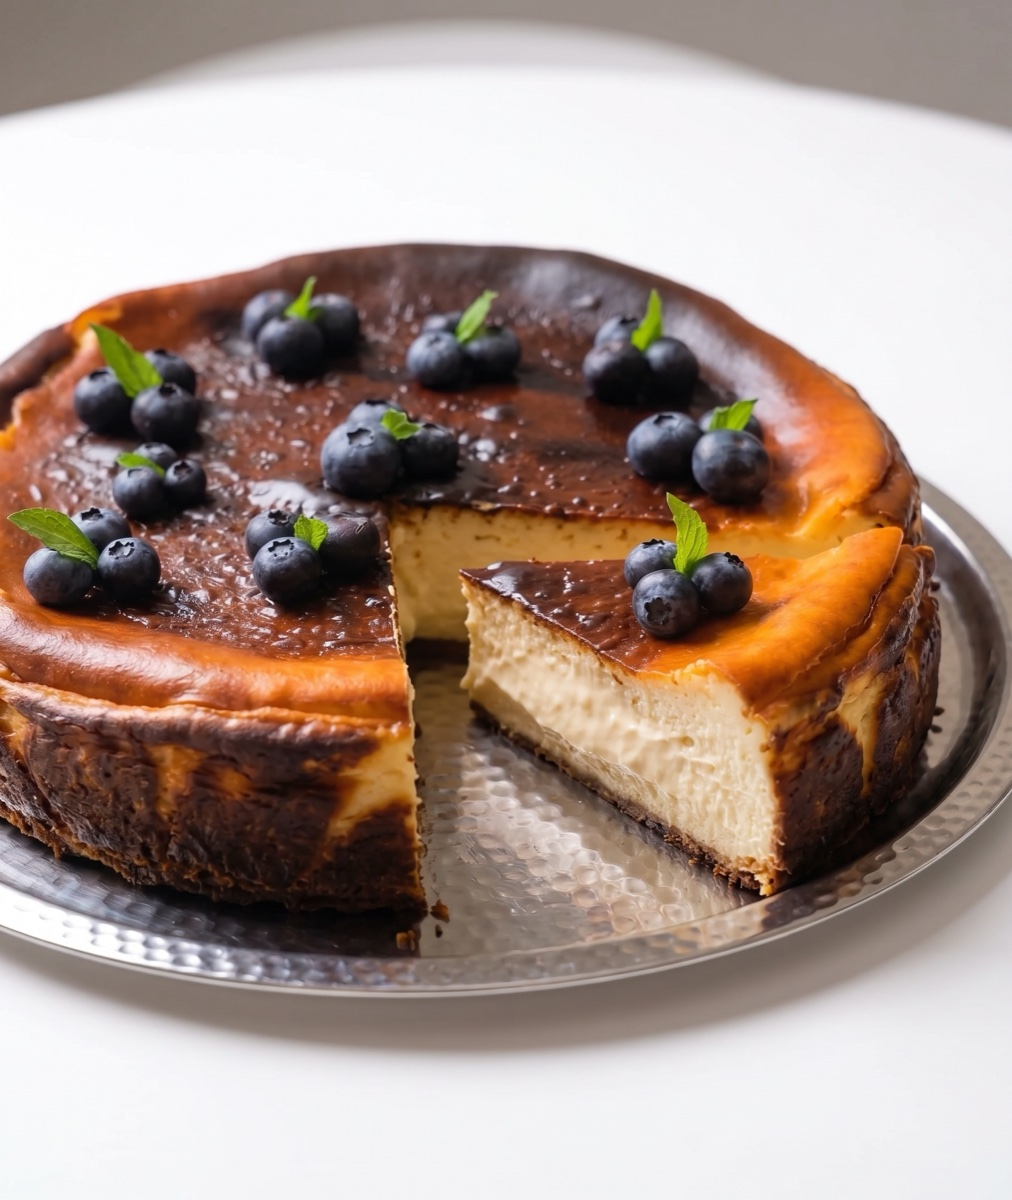
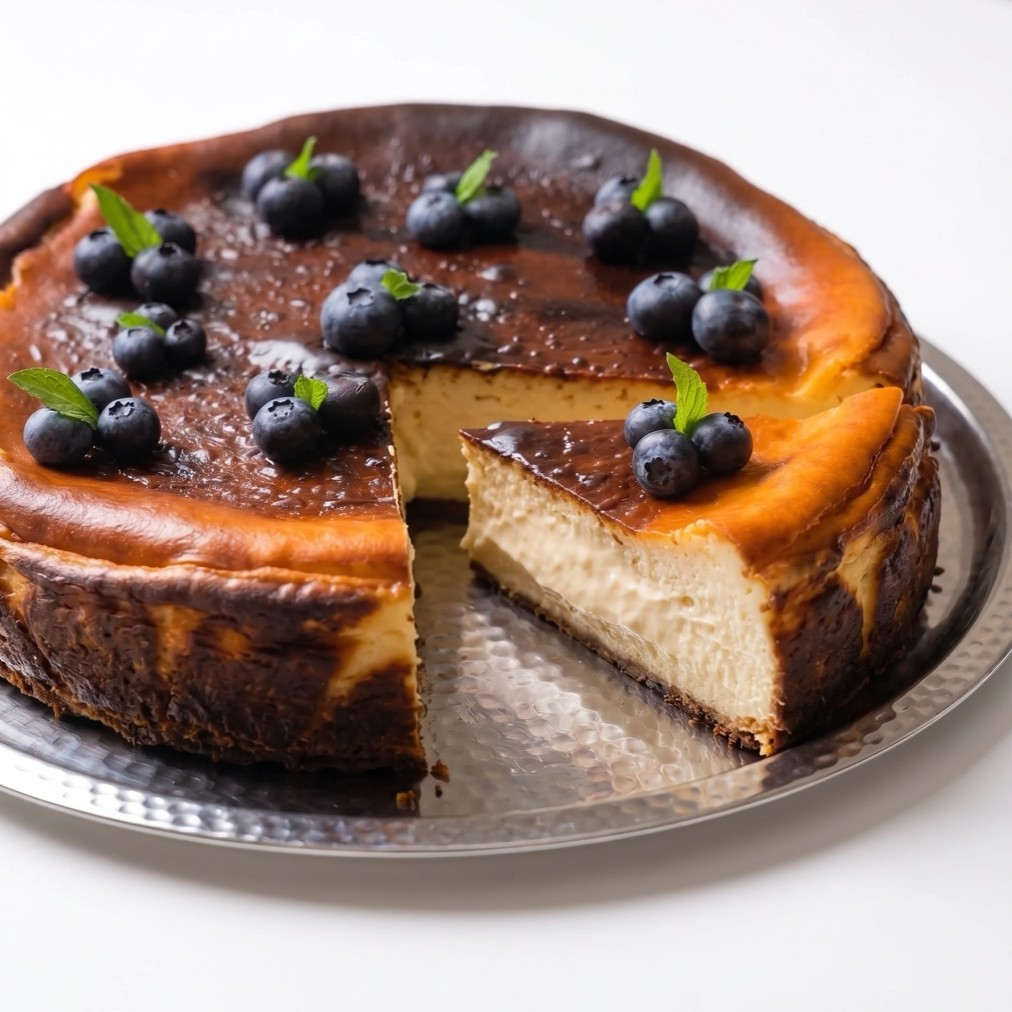
malzeme fotoğraflarının hepsi tamamlandı,alerjen içerikler belirlendi.

diff --git a/src/PastaneApp.Web/wwwroot/css/atelier-sura.css b/src/PastaneApp.Web/wwwroot/css/atelier-sura.css
@@ -116,6 +116,28 @@ a:hover {
   overflow: hidden;
 }
 
+.category-card {
+  position: relative;
+  transition: transform .25s ease;
+}
+.category-card:hover {
+  transform: scale(1.07);
+  z-index: 2;
+}
+.category-card:hover .as-tile {
+  box-shadow: 0 14px 30px rgba(61,43,28,.22);
+}
+
+.size-option {
+  position: relative;
+  transition: transform .25s ease, box-shadow .25s ease;
+}
+.size-option:hover {
+  transform: scale(1.05);
+  z-index: 2;
+  box-shadow: 0 14px 30px rgba(61,43,28,.18);
+}
+
 .as-tile-placeholder {
   font-size: 11px;
   letter-spacing: .1em;

diff --git a/src/PastaneApp.Web/Controllers/ProductsController.cs b/src/PastaneApp.Web/Controllers/ProductsController.cs
@@ -62,7 +62,7 @@ public class ProductsController : Controller
         var model = new ProductListViewModel
         {
             Products = cards,
-            Categories = categories.Select(c => new SelectListItem { Value = c.Id.ToString(), Text = c.Name }).ToList(),
+            Categories = categories.Select(c => new SelectListItem { Value = c.Id.ToString(), Text = c.Name, Selected = c.Id == categoryId }).ToList(),
             AllAllergens = allergens.OrderBy(a => a.Name).ToList(),
             SelectedCategoryId = categoryId,
             ExcludedAllergenIds = excluded.ToList(),

diff --git a/src/PastaneApp.Web/Controllers/PartyBoxController.cs b/src/PastaneApp.Web/Controllers/PartyBoxController.cs
@@ -32,7 +32,7 @@ public class PartyBoxController : Controller
         var flavors = flavorProducts
             .Where(p => FlavorProductNames.Contains(p.Name))
             .SelectMany(p => p.Images
-                .Where(i => i.ImageType == ImageType.Finished)
+                .Where(i => i.ImageType == ImageType.Process)
                 .OrderBy(i => i.SortOrder)
                 .Select(i => new PartyBoxFlavorOption
                 {
